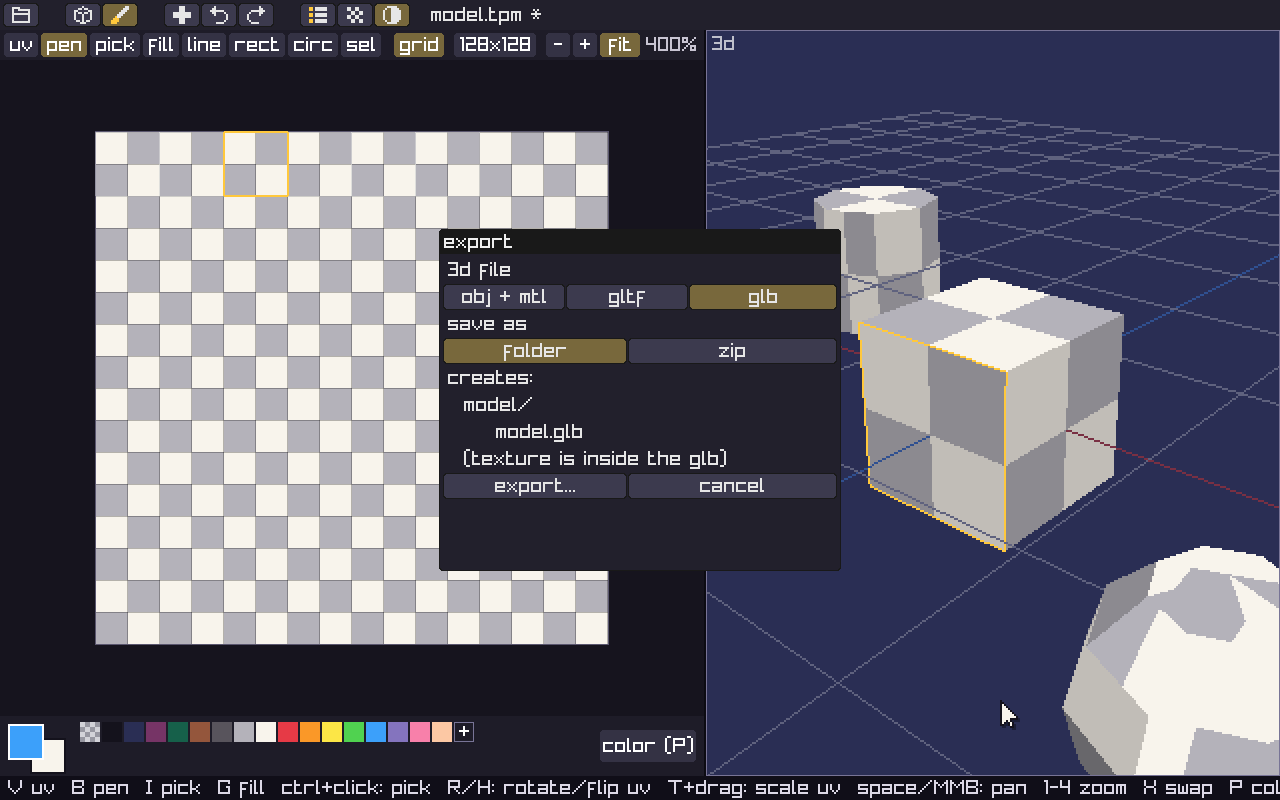
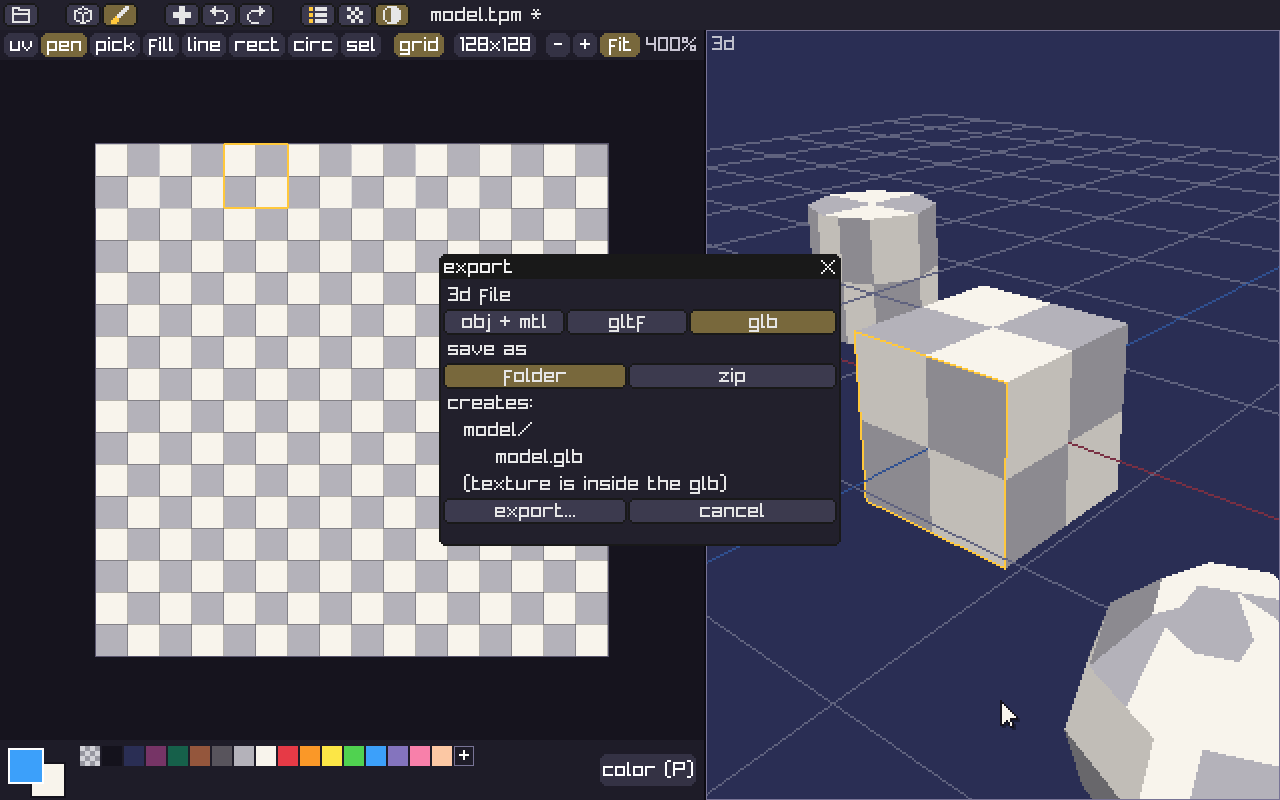
0.5.0: 도트 둥근 모서리, 제목줄 닫기 버튼, 크기 조절 손잡이
- 모서리를 한 칸(2px) 계단으로 깎는 도트 스타일 라운딩 (테두리도 도트 원호)
- 창 닫기(X)를 제목줄 오른쪽으로: project, color, export, files
- 크기 조절되는 창 오른쪽 아래에 흐린 점 손잡이
- 하단 단축키 안내 바 제거, 저장/오류 알림은 잠깐 뜨는 토스트로
- README 스크린샷 갱신

diff --git a/src/ui.c b/src/ui.c
@@ -26,32 +26,86 @@ static Color to_color(mu_Color c) {
     return (Color){ c.r, c.g, c.b, c.a };
 }
 
-/* ---- 모서리를 2픽셀 깎은 사각형 (도트 느낌의 둥근 모서리) ---- */
+/* ---- 도트 둥근 모서리: 한 칸(UI_FONT_SCALE 픽셀)씩 계단으로 깎음 ----
+   rad 2: 첫 줄 2칸, 둘째 줄 1칸 안쪽. 사각형을 가로 띠 몇 개로 나눠 out에 담고 개수를 돌려줌 */
 
-static void mu_round_rect(mu_Context *ctx, mu_Rect r, mu_Color c, bool square_bottom) {
-    if (r.w < 6 || r.h < 6) { mu_draw_rect(ctx, r, c); return; }
-    mu_draw_rect(ctx, mu_rect(r.x + 2, r.y, r.w - 4, r.h), c);
-    mu_draw_rect(ctx, mu_rect(r.x, r.y + 2, r.w, r.h - 4), c);
-    mu_draw_rect(ctx, mu_rect(r.x + 1, r.y + 1, r.w - 2, r.h - 2), c);
-    if (square_bottom) mu_draw_rect(ctx, mu_rect(r.x, r.y + r.h - 2, r.w, 2), c);
+#define PX UI_FONT_SCALE
+
+static int round_bands(int x, int y, int w, int h, int rad, bool square_bottom, int out[][4]) {
+    while (rad > 0 && (w < rad * PX * 3 || h < rad * PX * 3)) rad--;
+    int n = 0, top = rad * PX, bot = square_bottom ? 0 : rad * PX;
+    for (int i = 0; i < rad; i++) {
+        int in = (rad - i) * PX;
+        out[n][0] = x + in; out[n][1] = y + i * PX; out[n][2] = w - in * 2; out[n][3] = PX; n++;
+        if (!square_bottom) {
+            out[n][0] = x + in; out[n][1] = y + h - (i + 1) * PX; out[n][2] = w - in * 2; out[n][3] = PX; n++;
+        }
+    }
+    out[n][0] = x; out[n][1] = y + top; out[n][2] = w; out[n][3] = h - top - bot; n++;
+    return n;
 }
 
-/* microui의 기본 테두리/배경 대신. 창 제목줄은 아래쪽 모서리를 깎지 않음 (창 몸통과 이어지도록) */
+static void mu_round_rect(mu_Context *ctx, mu_Rect r, mu_Color c, int rad, bool square_bottom) {
+    int b[8][4], n = round_bands(r.x, r.y, r.w, r.h, rad, square_bottom, b);
+    for (int i = 0; i < n; i++) mu_draw_rect(ctx, mu_rect(b[i][0], b[i][1], b[i][2], b[i][3]), c);
+}
+
+static void fill_round(Rectangle r, Color c, int rad) {
+    int b[8][4], n = round_bands((int)r.x, (int)r.y, (int)r.width, (int)r.height, rad, false, b);
+    for (int i = 0; i < n; i++) DrawRectangle(b[i][0], b[i][1], b[i][2], b[i][3], c);
+}
+
+/* microui의 기본 테두리/배경 대신. 테두리는 한 칸 두께의 도트 원호 (바깥 rad 2, 안쪽 rad 1).
+   창 제목줄은 아래쪽 모서리를 깎지 않음 (창 몸통과 이어지도록) */
 static void draw_frame(mu_Context *ctx, mu_Rect rect, int colorid) {
     bool title = colorid == MU_COLOR_TITLEBG;
     bool bordered = !title && colorid != MU_COLOR_SCROLLBASE && colorid != MU_COLOR_SCROLLTHUMB;
     mu_Color border = ctx->style->colors[MU_COLOR_BORDER];
-    if (bordered && border.a)
-        mu_round_rect(ctx, mu_rect(rect.x - 1, rect.y - 1, rect.w + 2, rect.h + 2), border, false);
-    mu_round_rect(ctx, rect, ctx->style->colors[colorid], title);
+    if (bordered && border.a) {
+        mu_Rect o = mu_rect(rect.x - 1, rect.y - 1, rect.w + 2, rect.h + 2);
+        mu_round_rect(ctx, o, border, 2, false);
+        mu_round_rect(ctx, mu_rect(o.x + PX, o.y + PX, o.w - PX * 2, o.h - PX * 2), ctx->style->colors[colorid], 1, false);
+        return;
+    }
+    mu_round_rect(ctx, rect, ctx->style->colors[colorid], 2, title);
 }
 
 void ui_fill_round(Rectangle r, Color c) {
-    int x = (int)r.x, y = (int)r.y, w = (int)r.width, h = (int)r.height;
-    if (w < 6 || h < 6) { DrawRectangle(x, y, w, h, c); return; }
-    DrawRectangle(x + 2, y, w - 4, h, c);
-    DrawRectangle(x, y + 2, w, h - 4, c);
-    DrawRectangle(x + 1, y + 1, w - 2, h - 2, c);
+    fill_round(r, c, 2);
+}
+
+/* ---- 제목줄 닫기(X)와 크기 조절 손잡이가 있는 창 ---- */
+
+static bool g_resizable;   /* 창은 겹쳐 열지 않으므로 하나면 충분 */
+
+bool ui_begin_window(mu_Context *ctx, const char *title, mu_Rect rect, int opt, bool *closed) {
+    *closed = false;
+    mu_Container *cnt = mu_get_container(ctx, title);
+    if (!cnt->open) {        /* 지난 프레임에 X를 누름: 다음에 다시 열 수 있게 되돌려 둠 */
+        cnt->open = 1;
+        *closed = true;
+        return false;
+    }
+    g_resizable = !(opt & MU_OPT_NORESIZE);
+    return mu_begin_window_ex(ctx, title, rect, opt) != 0;
+}
+
+void ui_end_window(mu_Context *ctx) {
+    if (g_resizable) {
+        /* 몸통 clip을 잠시 빼고 오른쪽 아래 모서리에 흐린 점 삼각형 (스크롤바 위에 그려지도록 맨 끝에) */
+        mu_pop_clip_rect(ctx);
+        mu_Rect r = mu_get_current_container(ctx)->rect;
+        mu_Color c = ctx->style->colors[MU_COLOR_TEXT];
+        c.a = 70;
+        static const char *art[5] = { "....X", ".....", "..X.X", ".....", "X.X.X" };
+        int x0 = r.x + r.w - 5 * PX - 4, y0 = r.y + r.h - 5 * PX - 4;
+        for (int j = 0; j < 5; j++)
+            for (int i = 0; i < 5; i++)
+                if (art[j][i] == 'X') mu_draw_rect(ctx, mu_rect(x0 + i * PX, y0 + j * PX, PX, PX), c);
+        mu_push_clip_rect(ctx, mu_get_clip_rect(ctx));
+    }
+    g_resizable = false;
+    mu_end_window(ctx);
 }
 
 void ui_init(mu_Context *ctx) {
@@ -329,9 +383,10 @@ static void draw_icon(int id, mu_Rect rect, mu_Color mc) {
 
     /* DrawTriangle은 화면 기준 반시계 방향으로 꼭짓점을 넘겨야 그려짐 */
     switch (id) {
-    case MU_ICON_CLOSE:
-        DrawLineEx((Vector2){ cx - h, cy - h }, (Vector2){ cx + h, cy + h }, 2.0f, c);
-        DrawLineEx((Vector2){ cx + h, cy - h }, (Vector2){ cx - h, cy + h }, 2.0f, c);
+    case MU_ICON_CLOSE:   /* 창 제목줄의 X: 도트 아이콘, 올려두면 강조색 */
+        if (CheckCollisionPointRec(GetMousePosition(), (Rectangle){ rect.x, rect.y, rect.w, rect.h }))
+            c = (Color){ 255, 200, 60, 255 };
+        draw_pixel_icon(UI_ICON_CLOSE, rect, c);
         break;
     case MU_ICON_CHECK:
         DrawRectangle((int)(cx - h), (int)(cy - h), (int)(h * 2), (int)(h * 2), c);
@@ -480,8 +535,8 @@ void ui_tooltip_draw(void) {
     /* 화면 밖으로 나가지 않게 */
     if (x + w > GetScreenWidth()) x = GetScreenWidth() - w - 2;
     if (y + h > GetScreenHeight()) y = m.y - h - 6;
-    ui_fill_round((Rectangle){ x - 1, y - 1, w + 2, h + 2 }, (Color){ 255, 200, 60, 255 });
-    ui_fill_round((Rectangle){ x, y, w, h }, (Color){ 20, 18, 28, 255 });
+    fill_round((Rectangle){ x - PX, y - PX, w + PX * 2, h + PX * 2 }, (Color){ 255, 200, 60, 255 }, 2);
+    fill_round((Rectangle){ x, y, w, h }, (Color){ 20, 18, 28, 255 }, 1);
     DrawTextEx(f, g_tip, (Vector2){ x + 6, y + 4 }, font_size(), (float)UI_FONT_SCALE, (Color){ 240, 236, 228, 255 });
 }
 

diff --git a/src/main.c b/src/main.c
@@ -372,8 +372,11 @@ static void draw_topbar(App *a) {
 
 static void draw_overview(App *a) {
     mu_Context *ctx = a->ui;
-    if (!mu_begin_window_ex(ctx, "project (O)", mu_rect(GetScreenWidth() - 320, TOPBAR_H + 30, 300, 420), MU_OPT_NOCLOSE))
+    bool closed;
+    if (!ui_begin_window(ctx, "project (O)", mu_rect(GetScreenWidth() - 320, TOPBAR_H + 30, 300, 420), 0, &closed)) {
+        if (closed) a->show_overview = 0;
         return;
+    }
     Scene *s = &a->scene;
     static double last_click;
     static int last_idx = -1;
@@ -408,22 +411,22 @@ static void draw_overview(App *a) {
         }
         mu_pop_id(ctx);
     }
-    /* 선택한 메쉬 복제/삭제, 창 닫기 */
-    mu_layout_row(ctx, 4, (int[]){ 34, 34, -36, -1 }, 0);
+    /* 선택한 메쉬 복제/삭제 */
+    mu_layout_row(ctx, 3, (int[]){ 34, 34, -1 }, 0);
     if (ui_icon_button(ctx, UI_ICON_CLONE, "clone selected mesh", false)) model_clone(a);
     if (ui_icon_button(ctx, UI_ICON_TRASH, "delete selected mesh (ctrl+x)", false)) model_delete_mesh(a);
-    mu_label(ctx, "");
-    if (ui_icon_button(ctx, UI_ICON_CLOSE, "close (O)", false)) a->show_overview = 0;
-    mu_layout_row(ctx, 1, (int[]){ -1 }, 0);
     mu_label(ctx, "double-click: rename");
-    mu_end_window(ctx);
+    ui_end_window(ctx);
 }
 
 static void draw_color_window(App *a) {
     mu_Context *ctx = a->ui;
-    if (!mu_begin_window_ex(ctx, "color (P)", mu_rect(GetScreenWidth() / 2 - 112, TOPBAR_H + 40, 225, 372),
-                            MU_OPT_NOCLOSE | MU_OPT_NORESIZE))
+    bool closed;
+    if (!ui_begin_window(ctx, "color (P)", mu_rect(GetScreenWidth() / 2 - 112, TOPBAR_H + 40, 225, 372),
+                         MU_OPT_NORESIZE, &closed)) {
+        if (closed) a->show_color = 0;
         return;
+    }
     Scene *sc = &a->scene;
     Color *target = a->pick_target ? &a->color2 : &a->color;
 
@@ -440,10 +443,9 @@ static void draw_color_window(App *a) {
         init = true;
     }
 
-    mu_layout_row(ctx, 3, (int[]){ 84, 84, -1 }, 0);
+    mu_layout_row(ctx, 2, (int[]){ 101, -1 }, 0);
     if (ui_toggle_button(ctx, "color 1", a->pick_target == 0)) a->pick_target = 0;
     if (ui_toggle_button(ctx, "color 2", a->pick_target == 1)) a->pick_target = 1;
-    if (ui_icon_button(ctx, UI_ICON_CLOSE, "close (P)", false)) a->show_color = 0;
     target = a->pick_target ? &a->color2 : &a->color;
 
     if (ui_color_picker(ctx, &h, &s, &v, &al)) {
@@ -493,14 +495,17 @@ static void draw_color_window(App *a) {
         app_mark(a);
         sc->bg = (Color){ target->r, target->g, target->b, 255 };
     }
-    mu_end_window(ctx);
+    ui_end_window(ctx);
 }
 
 static void draw_export_window(App *a) {
     mu_Context *ctx = a->ui;
     int W = GetScreenWidth(), H = GetScreenHeight();
-    if (!mu_begin_window_ex(ctx, "export", mu_rect(W / 2 - 200, H / 2 - 170, 400, 340), MU_OPT_NOCLOSE | MU_OPT_NORESIZE))
+    bool closed;
+    if (!ui_begin_window(ctx, "export", mu_rect(W / 2 - 200, H / 2 - 145, 400, 290), MU_OPT_NORESIZE, &closed)) {
+        if (closed) a->show_export = 0;
         return;
+    }
     mu_layout_row(ctx, 1, (int[]){ -1 }, 0);
     mu_label(ctx, "3d file");
     mu_layout_row(ctx, 3, (int[]){ 120, 120, -1 }, 0);
@@ -532,7 +537,7 @@ static void draw_export_window(App *a) {
     mu_layout_row(ctx, 2, (int[]){ 182, -1 }, 0);
     if (mu_button(ctx, "export...")) file_export(a);
     if (mu_button(ctx, "cancel")) a->show_export = 0;
-    mu_end_window(ctx);
+    ui_end_window(ctx);
 }
 
 static void build_ui(App *a) {
@@ -561,18 +566,14 @@ static void build_ui(App *a) {
     mu_end(ctx);
 }
 
-static void draw_status(const App *a) {
-    int y = GetScreenHeight() - STATUS_H;
-    DrawRectangle(0, y, GetScreenWidth(), STATUS_H, (Color){ 16, 14, 24, 255 });
-    const char *text;
-    if (GetTime() - a->msg_time < 3.0 && a->msg[0]) text = a->msg;
-    else if (a->mode == MODE_MODEL)
-        text = "drag: move  R/T+drag: rotate/scale  shift+drag: center  RMB: menu  space: fullscreen  "
-               "E extrude  X del face  F/G props  M render  L shade  O project  tab: texture";
-    else
-        text = "V uv  B pen  I pick  G fill  ctrl+click: pick  R/H: rotate/flip uv  T+drag: scale uv  "
-               "space/MMB: pan  1-4 zoom  X swap  P color  tab: model";
-    DrawTextEx(GetFontDefault(), text, (Vector2){ 8, (float)y + 2 }, 20, 2, (Color){ 220, 216, 230, 255 });
+/* 저장/오류 같은 알림: 왼쪽 아래에 잠깐 떴다 사라짐 */
+static void draw_toast(const App *a) {
+    if (!a->msg[0] || GetTime() - a->msg_time > 3.0) return;
+    Vector2 ts = MeasureTextEx(GetFontDefault(), a->msg, 20, 2);
+    Rectangle r = { 10, GetScreenHeight() - ts.y - 22, ts.x + 16, ts.y + 10 };
+    ui_fill_round((Rectangle){ r.x - 2, r.y - 2, r.width + 4, r.height + 4 }, (Color){ 255, 200, 60, 255 });
+    ui_fill_round(r, (Color){ 20, 18, 28, 255 });
+    DrawTextEx(GetFontDefault(), a->msg, (Vector2){ r.x + 8, r.y + 5 }, 20, 2, (Color){ 240, 236, 228, 255 });
 }
 
 static void global_keys(App *a) {
@@ -684,8 +685,8 @@ int main(void) {
         if (a->mode == MODE_TEXTURE) paint_draw(a);
         for (int i = 0; i < VIEW_COUNT; i++)
             if (a->views[i].rect.width > 0) view_draw(a, &a->views[i]);
-        draw_status(a);
         DrawRectangle(0, 0, GetScreenWidth(), TOPBAR_H, (Color){ 34, 32, 44, 255 });
+        draw_toast(a);
         ui_render(a->ui);
         ui_tooltip_draw();
         cursor_draw(a);

diff --git a/src/filebrowser.c b/src/filebrowser.c
@@ -1,4 +1,5 @@
 #include "filebrowser.h"
+#include "ui.h"
 #include <ctype.h>
 #include <stdio.h>
 #include <stdlib.h>
@@ -177,7 +178,11 @@ bool fb_update(FileBrowser *fb, mu_Context *ctx, char *out, size_t size) {
 
     int W = GetScreenWidth(), H = GetScreenHeight();
     mu_Rect r = mu_rect(W / 2 - 320, H / 2 - 250, 640, 500);
-    if (!mu_begin_window_ex(ctx, "files", r, MU_OPT_NOCLOSE | MU_OPT_NORESIZE)) return false;
+    bool closed;
+    if (!ui_begin_window(ctx, "files", r, MU_OPT_NORESIZE, &closed)) {
+        if (closed) fb_close(fb);
+        return false;
+    }
     mu_bring_to_front(ctx, mu_get_current_container(ctx));
     bool done = false;
 
@@ -256,6 +261,6 @@ bool fb_update(FileBrowser *fb, mu_Context *ctx, char *out, size_t size) {
             if (mu_button(ctx, "cancel")) fb_close(fb);
         }
     }
-    mu_end_window(ctx);
+    ui_end_window(ctx);
     return done;
 }

diff --git a/src/ui.h b/src/ui.h
@@ -33,8 +33,12 @@ bool ui_toggle_button(mu_Context *ctx, const char *label, bool active);
 void ui_tooltip_begin(void);
 void ui_tooltip_draw(void);
 
-/* 모서리를 2픽셀 깎은 사각형 (raylib로 바로 그림) */
+/* 모서리를 도트 계단으로 깎은 사각형 (raylib로 바로 그림) */
 void ui_fill_round(Rectangle r, Color c);
+/* 제목줄 오른쪽에 X가 있는 창 (MU_OPT_NOCLOSE 없이). X를 누르면 다음 프레임에 false + *closed = true.
+   크기 조절이 되는 창은 오른쪽 아래에 손잡이 점을 그림. 끝은 ui_end_window로 */
+bool ui_begin_window(mu_Context *ctx, const char *title, mu_Rect rect, int opt, bool *closed);
+void ui_end_window(mu_Context *ctx);
 /* raylib로 바로 그리는 글자 버튼. blocked면 마우스를 무시 (UI 창이 위에 있을 때) */
 bool ui_button_rect(Rectangle r, const char *label, bool active, bool blocked);
 

diff --git a/src/view.c b/src/view.c
@@ -100,7 +100,7 @@ static void set_rect(App *a, Viewport *vp, Rectangle r) {
 
 void view_layout(App *a) {
     float W = (float)GetScreenWidth(), H = (float)GetScreenHeight();
-    Rectangle area = { 0, TOPBAR_H, W, H - TOPBAR_H - STATUS_H };
+    Rectangle area = { 0, TOPBAR_H, W, H - TOPBAR_H };
     for (int i = 0; i < VIEW_COUNT; i++) a->views[i].rect.width = 0;
 
     if (a->mode == MODE_TEXTURE) {

diff --git a/src/app.h b/src/app.h
@@ -6,7 +6,6 @@
 #include "mesh.h"
 
 #define TOPBAR_H 30
-#define STATUS_H 24
 
 typedef enum { MODE_MODEL, MODE_TEXTURE } AppMode;
 

diff --git a/README.md b/README.md
@@ -7,7 +7,7 @@
 4분할 뷰에서 클릭·드래그로 메쉬를 만들고, 최대 1024×1024 텍스처를 직접 그려서<br>
 OBJ / glTF / GLB로 내보냅니다.
 
-![version](https://img.shields.io/badge/version-0.4.6-f8c040)
+![version](https://img.shields.io/badge/version-0.5.0-f8c040)
 ![language](https://img.shields.io/badge/C23-raylib%205.5-3ca0fa)
 ![platform](https://img.shields.io/badge/platform-Windows%20%7C%20macOS%20%7C%20Linux-8474be)
 ![license](https://img.shields.io/badge/license-MIT-50d250)
